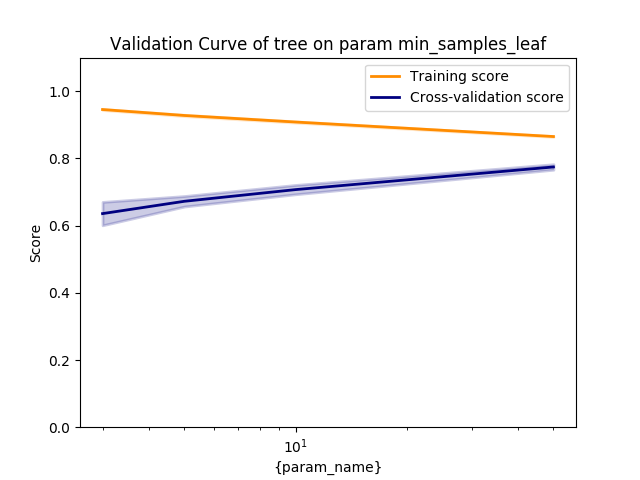
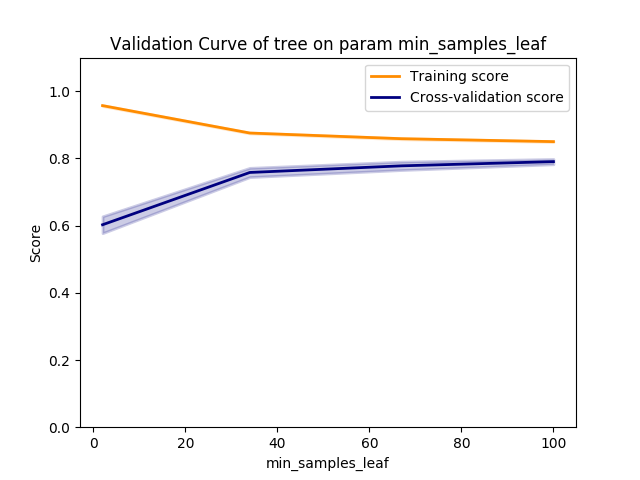
Learning curves

diff --git a/assignment-fnc/modelling.py b/assignment-fnc/modelling.py
@@ -127,8 +127,8 @@ def train_sklearn_model(model_name, train_X, train_Y, test_X, test_Y):
         # Plot some validation curves on the parameters
         model.fit(train_X, train_Y)
         plot_validation_curve(model, model_name, train_X, train_Y, "max_depth", np.linspace(3, 10, 3))
-        plot_validation_curve(model, model_name, train_X, train_Y, "min_samples_split", np.linspace(2, 50, 4))
-        plot_validation_curve(model, model_name, train_X, train_Y, "min_samples_leaf", np.linspace(2, 100, 4))
+        plot_validation_curve(model, model_name, train_X, train_Y, "min_samples_split", [int(i) for i in np.linspace(2, 50, 4)])
+        plot_validation_curve(model, model_name, train_X, train_Y, "min_samples_leaf", [int(i) for i in np.linspace(2, 100, 4)])
     else:
         model.fit(train_X, train_Y)
 

diff --git a/assignment-fnc/learning_curve.py b/assignment-fnc/learning_curve.py
@@ -86,4 +86,4 @@ def plot_learning_curve(estimator, model_name, X, y, ylim=None, cv=None,
              label="Cross-validation score")
 
     plt.legend(loc="best")
-    plt.savefig("img/f{model_name}_learning_curve.png")
+    plt.savefig(f"img/f{model_name}_learning_curve.png")
